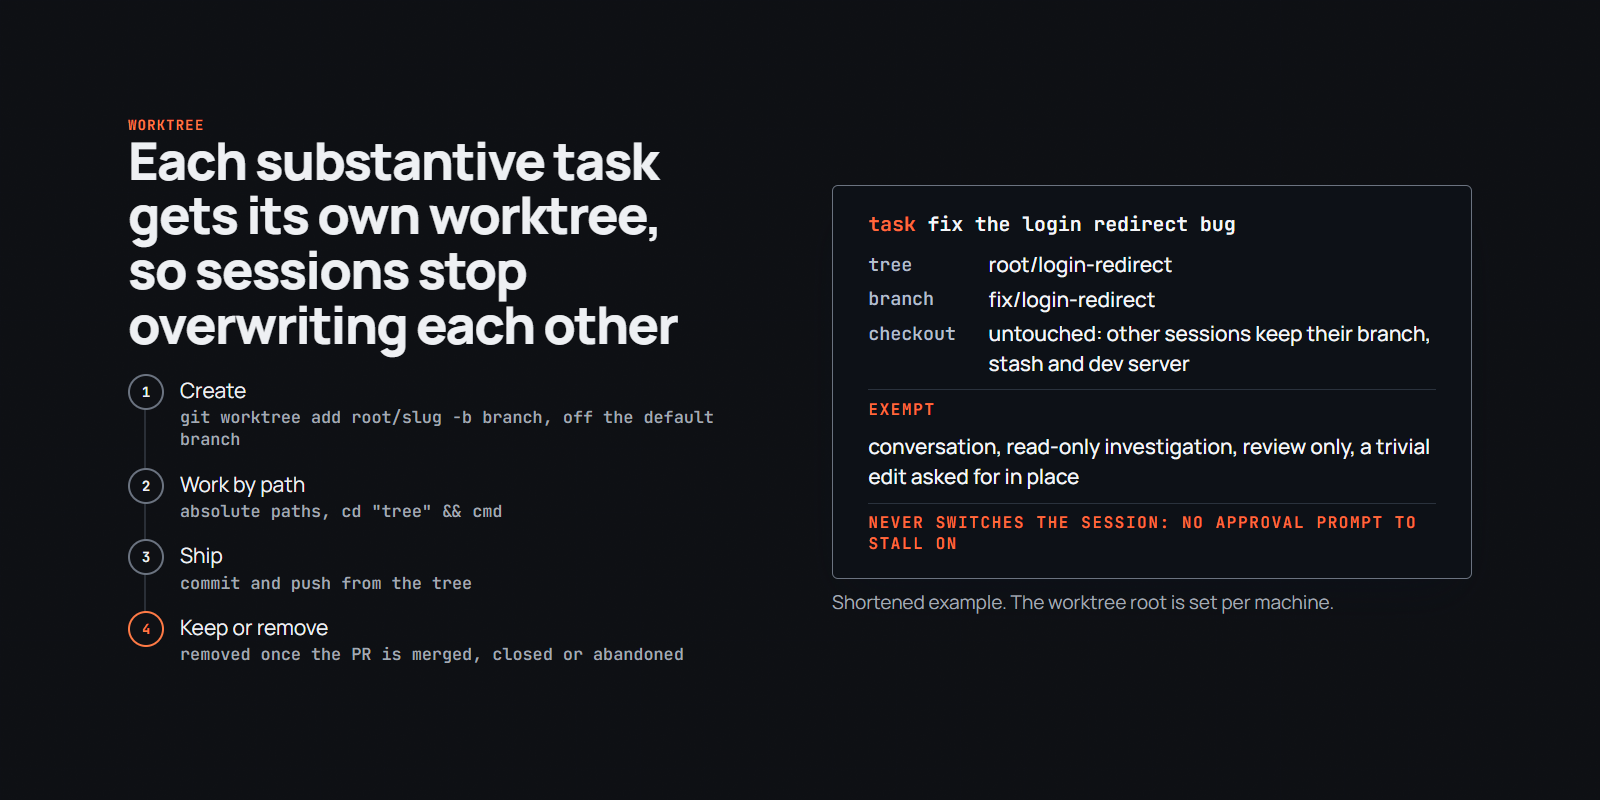
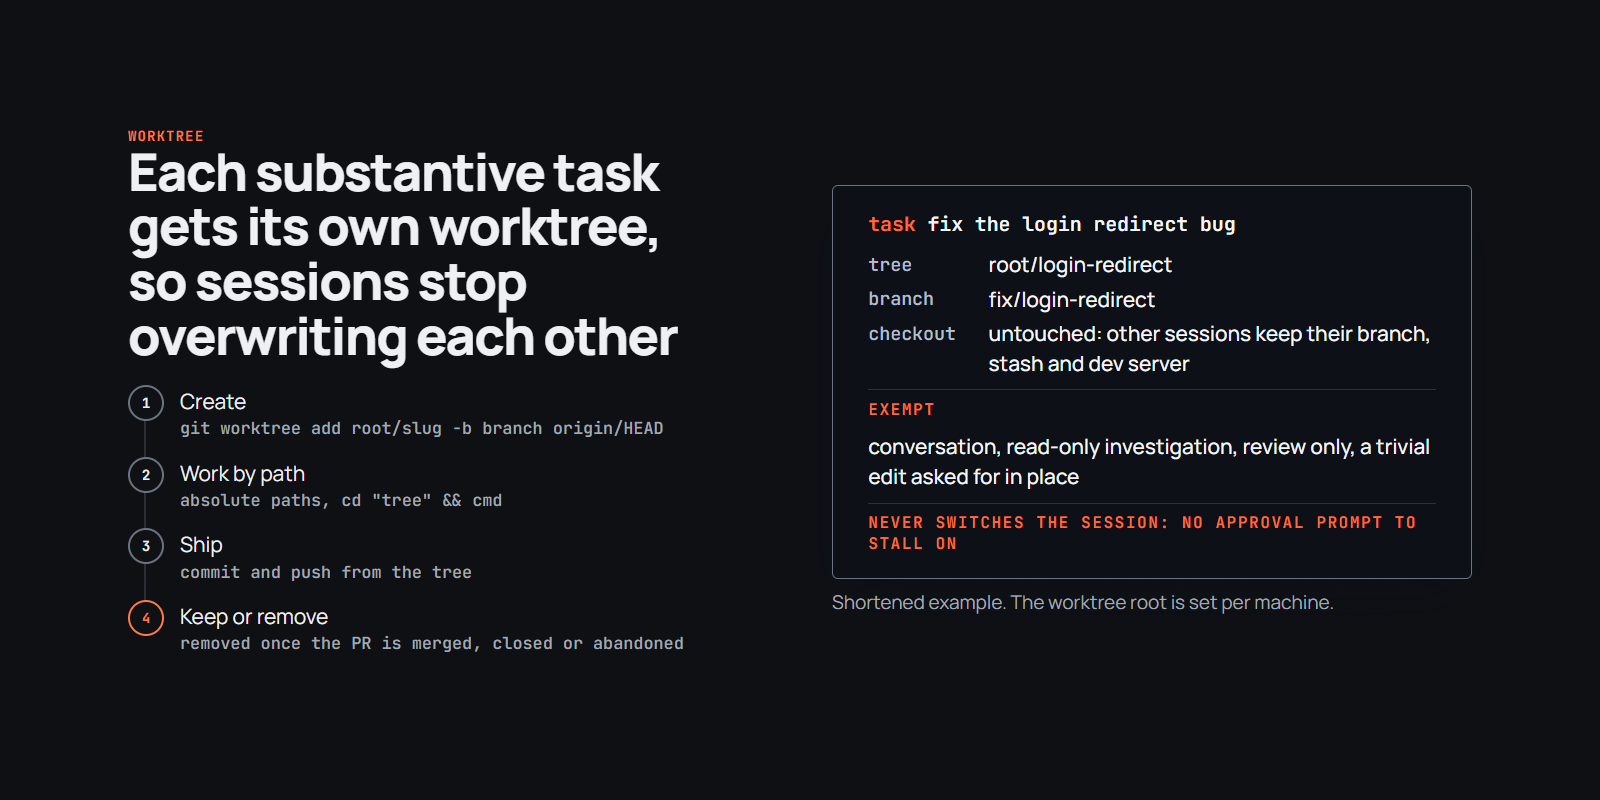
docs: worktree base point, registry-only diff review, warn-first wording
The worktree command now names origin/HEAD as its start point, so the tree
really branches off the remote default branch. supply-chain-guard says only
named registry packages get a diff review, bigfile-guard says it flags
growth, and the review usage example uses a neutral PR number.

Changed region(s): [[0.0625, 0.125, 0.4375, 0.8438]]

diff --git a/docs/figures/readme.src.html b/docs/figures/readme.src.html
@@ -495,7 +495,7 @@
     <div class="split split--even split--matrix">
       <div>
         <p class="slide__label">supply-chain-guard</p>
-        <h2 class="slide__heading">Fresh releases wait 7 days, and a named package install gets a diff review</h2>
+        <h2 class="slide__heading">Fresh releases wait 7 days, and a named registry package gets a diff review</h2>
         <ol class="stepper">
           <li>Parse the command<small>chains, wrappers, sh -c; installs nothing: exits in about 30 ms</small></li>
           <li>Fetch both versions<small>installed vs what the command would install</small></li>
@@ -559,7 +559,7 @@
         <p class="slide__label">worktree</p>
         <h2 class="slide__heading">Each substantive task gets its own worktree, so sessions stop overwriting each other</h2>
         <ol class="stepper">
-          <li>Create<small>git worktree add root/slug -b branch, off the default branch</small></li>
+          <li>Create<small>git worktree add root/slug -b branch origin/HEAD</small></li>
           <li>Work by path<small>absolute paths, cd "tree" &amp;&amp; cmd</small></li>
           <li>Ship<small>commit and push from the tree</small></li>
           <li>Keep or remove<small>removed once the PR is merged, closed or abandoned</small></li>

diff --git a/skills/worktree/SKILL.md b/skills/worktree/SKILL.md
@@ -6,7 +6,7 @@ description: Use before the first file edit of a substantive task (feature slice
 # Worktree isolation
 
 Shared checkout: in-place edits clobber other sessions' branch, stash, dev server. Before the first file edit of a substantive task (feature slice, bug fix, spec/plan work, anything ending in a commit):
-1. `git worktree add "<tree>" -b <branch>` off the remote default branch (`origin/HEAD`) unless told otherwise, where `<tree>` = `<worktree-root>/<slug>` (`<worktree-root>`: host file).
+1. `git worktree add "<tree>" -b <branch> origin/HEAD` (the remote default branch) unless told otherwise, where `<tree>` = `<worktree-root>/<slug>` (`<worktree-root>`: host file).
 2. Work in `<tree>` from the launch dir: Read, Edit, Write, Grep and Glob always get an absolute path inside `<tree>`; every shell command starts with `cd "<tree>" &&` (tests, package scripts and builds run from cwd, so this prefix is what keeps them off the shared checkout). If `<tree>` belongs to a different repo than the launch dir, read its `CLAUDE.md` first, since the session loaded only the launch dir's; its `.claude/settings` hooks don't run either, so if that repo depends on them, stop and ask for a session launched in `<tree>`. Why not `EnterWorktree`: entering any path outside the repo's `.claude/worktrees/` always asks for approval (no allow rule suppresses it), and an unattended session waits on that prompt for hours (once 42 h on a server). Its `name` form puts trees under `.claude/worktrees/` (broke a gitlink; vitest/eslint glob into copies).
 3. Commit and push from `<tree>`. `git worktree remove "<tree>"` once pushed and the PR is merged, closed or abandoned; keep it only while the PR is open or work is unfinished, and say so in the final answer.
 4. Don't rely on step 3 to clean up (dead sessions never finish it); pruning is per host (host file `~/.claude/home/hosts/<host>.md`).

diff --git a/skills/supply-chain-guard/README.md b/skills/supply-chain-guard/README.md
@@ -5,7 +5,7 @@
 <p align="center">
   <picture>
     <source media="(prefers-color-scheme: dark)" srcset="assets/supply-chain-guard-dark.png">
-    <img alt="Fresh releases wait 7 days, and a named package install gets a diff review: parse the command, fetch the installed and requested versions, compute signals (diff scan, OSV, release age), a Claude review of only the diff, and a verdict that is the stricter of floor and review. Example: npm i example-lib@2.4.1 over 2.4.0, released 2 days ago, gets ask because it is younger than the cooldown." src="assets/supply-chain-guard-light.png" width="880">
+    <img alt="Fresh releases wait 7 days, and a named registry package gets a diff review: parse the command, fetch the installed and requested versions, compute signals (diff scan, OSV, release age), a Claude review of only the diff, and a verdict that is the stricter of floor and review. Example: npm i example-lib@2.4.1 over 2.4.0, released 2 days ago, gets ask because it is younger than the cooldown." src="assets/supply-chain-guard-light.png" width="880">
   </picture>
 </p>
 

diff --git a/skills/worktree/README.md b/skills/worktree/README.md
@@ -18,7 +18,7 @@
 | | |
 | --- | --- |
 | **Fires** | before the first edit of a substantive task: a feature slice, a bug fix, spec or plan work, anything that ends in a commit |
-| **Does** | `git worktree add <root>/<slug> -b <branch>` off the default branch, then works in it by absolute path and `cd "<tree>" &&` from the launch directory |
+| **Does** | `git worktree add <root>/<slug> -b <branch> origin/HEAD` (the remote default branch), then works in it by absolute path and `cd "<tree>" &&` from the launch directory |
 | **Exempt** | conversation, read-only investigation, review only, a trivial single-file edit asked for in place |
 | **Never** | uses `EnterWorktree`: any path outside `.claude/worktrees/` asks for approval, and its `name` form puts trees inside the checkout |
 

diff --git a/skills/bigfile-guard/SKILL.md b/skills/bigfile-guard/SKILL.md
@@ -5,7 +5,7 @@ description: Git pre-commit hook and Claude Code PreToolUse hook that flag stage
 
 # bigfile-guard
 
-Agents read large files in parts and edit them less reliably. The guard stops the growth of large files at commit time; it does not touch files that already exist and do not grow.
+Agents read large files in parts and edit them less reliably. The guard flags the growth of large files at commit time (warns by default, blocks when configured); it does not touch files that already exist and do not grow.
 
 ## Rule
 

diff --git a/skills/bigfile-guard/README.md b/skills/bigfile-guard/README.md
@@ -1,6 +1,6 @@
 # bigfile-guard
 
-**Stops big files from getting bigger: at commit time it reports any staged text file over about 5000 tokens that is new or grew, so agents keep working on files they can read whole.**
+**Flags big files that get bigger: at commit time it reports any staged text file over about 5000 tokens that is new or grew, so agents keep working on files they can read whole.**
 
 <p align="center">
   <picture>

diff --git a/skills/risk-code-review/README.md b/skills/risk-code-review/README.md
@@ -10,7 +10,7 @@
 </p>
 
 ```
-@review 3241              # a PR number or URL
+@review 42                # a PR number or URL
 @review feat/my-branch    # a branch, diffed against its base
 ```
 
